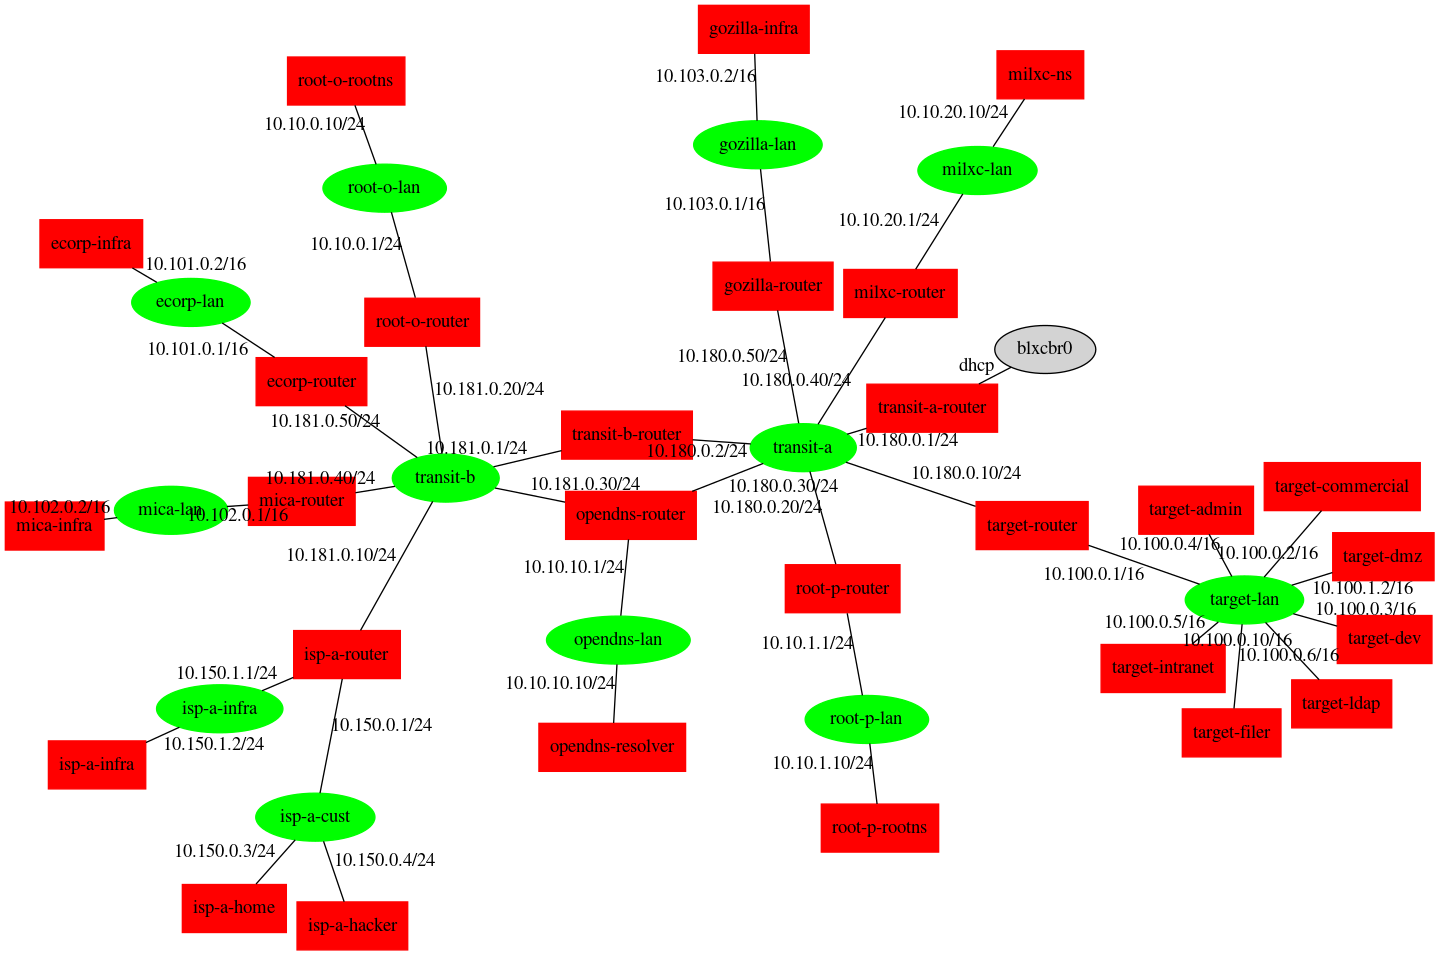
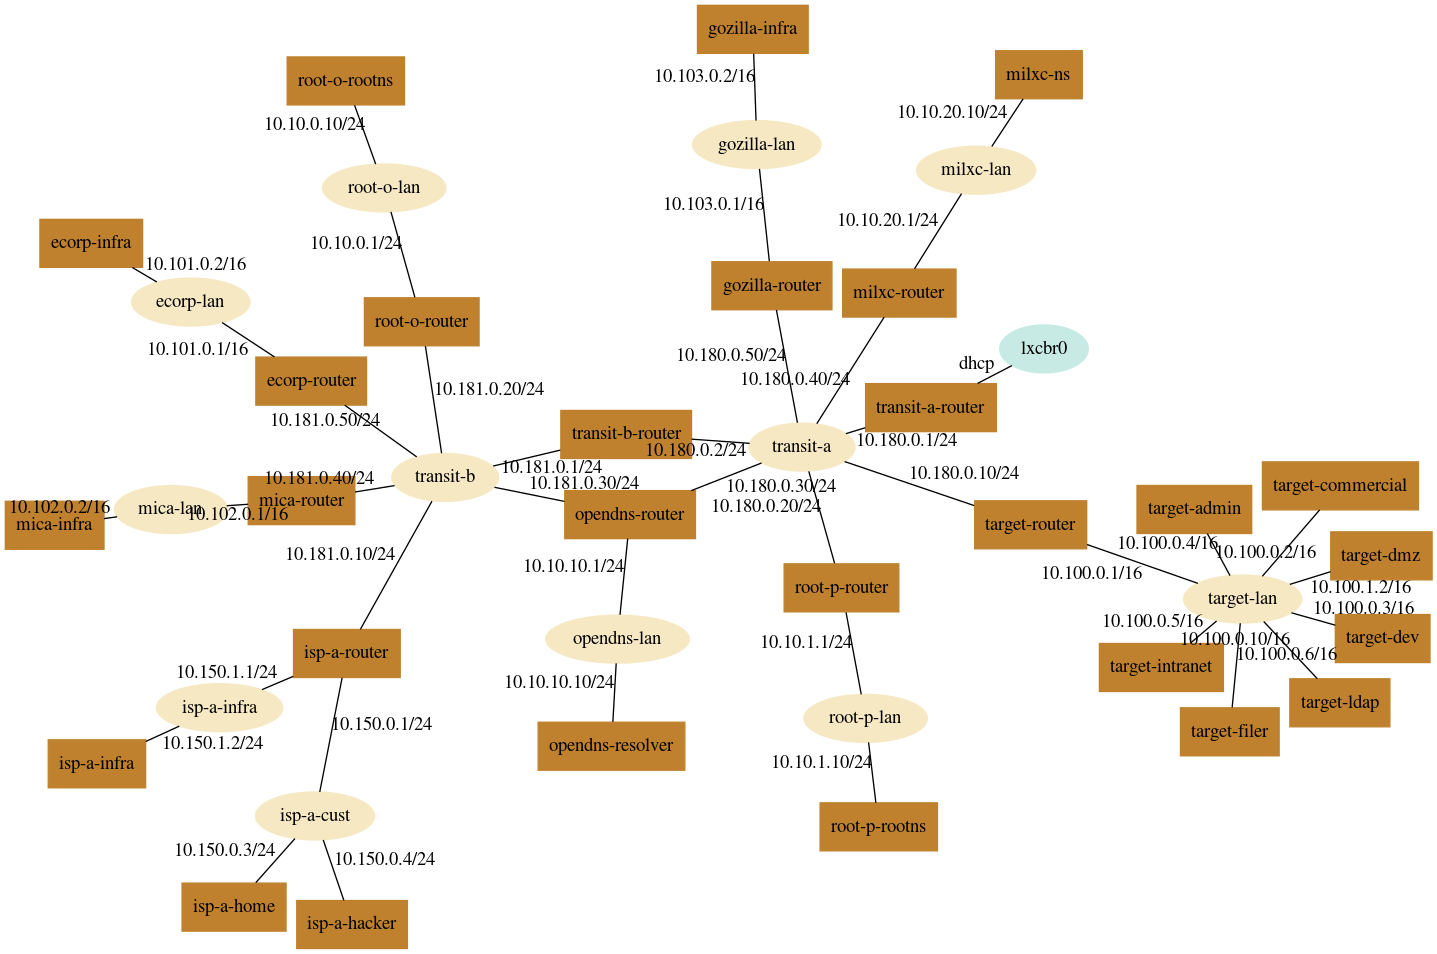
new colors when printing topologies

diff --git a/mi-lxc.py b/mi-lxc.py
@@ -543,10 +543,13 @@ def printgraph():
     G2.node_attr['style'] = "filled"
 
     for cname in containers:
-        G2.add_node("c"+cname, color='red', shape='box', label=cname)
+        G2.add_node("c"+cname, colorscheme='brbg9', color='2', shape='box', label=cname)
 
     for bridge in bridges:
-        G2.add_node("b"+bridge, color='green', label=bridge[len(prefixbr):])
+        G2.add_node("b"+bridge, colorscheme='brbg9', color='4', label=bridge[len(prefixbr):])
+
+    G2.add_node("b"+lxcbr, colorscheme='brbg9', color='6', label=lxcbr)
+    # 69A2B0, A1C084, FFCAB1, 659157, E05263
 
     for cname in containers:
         global nics
